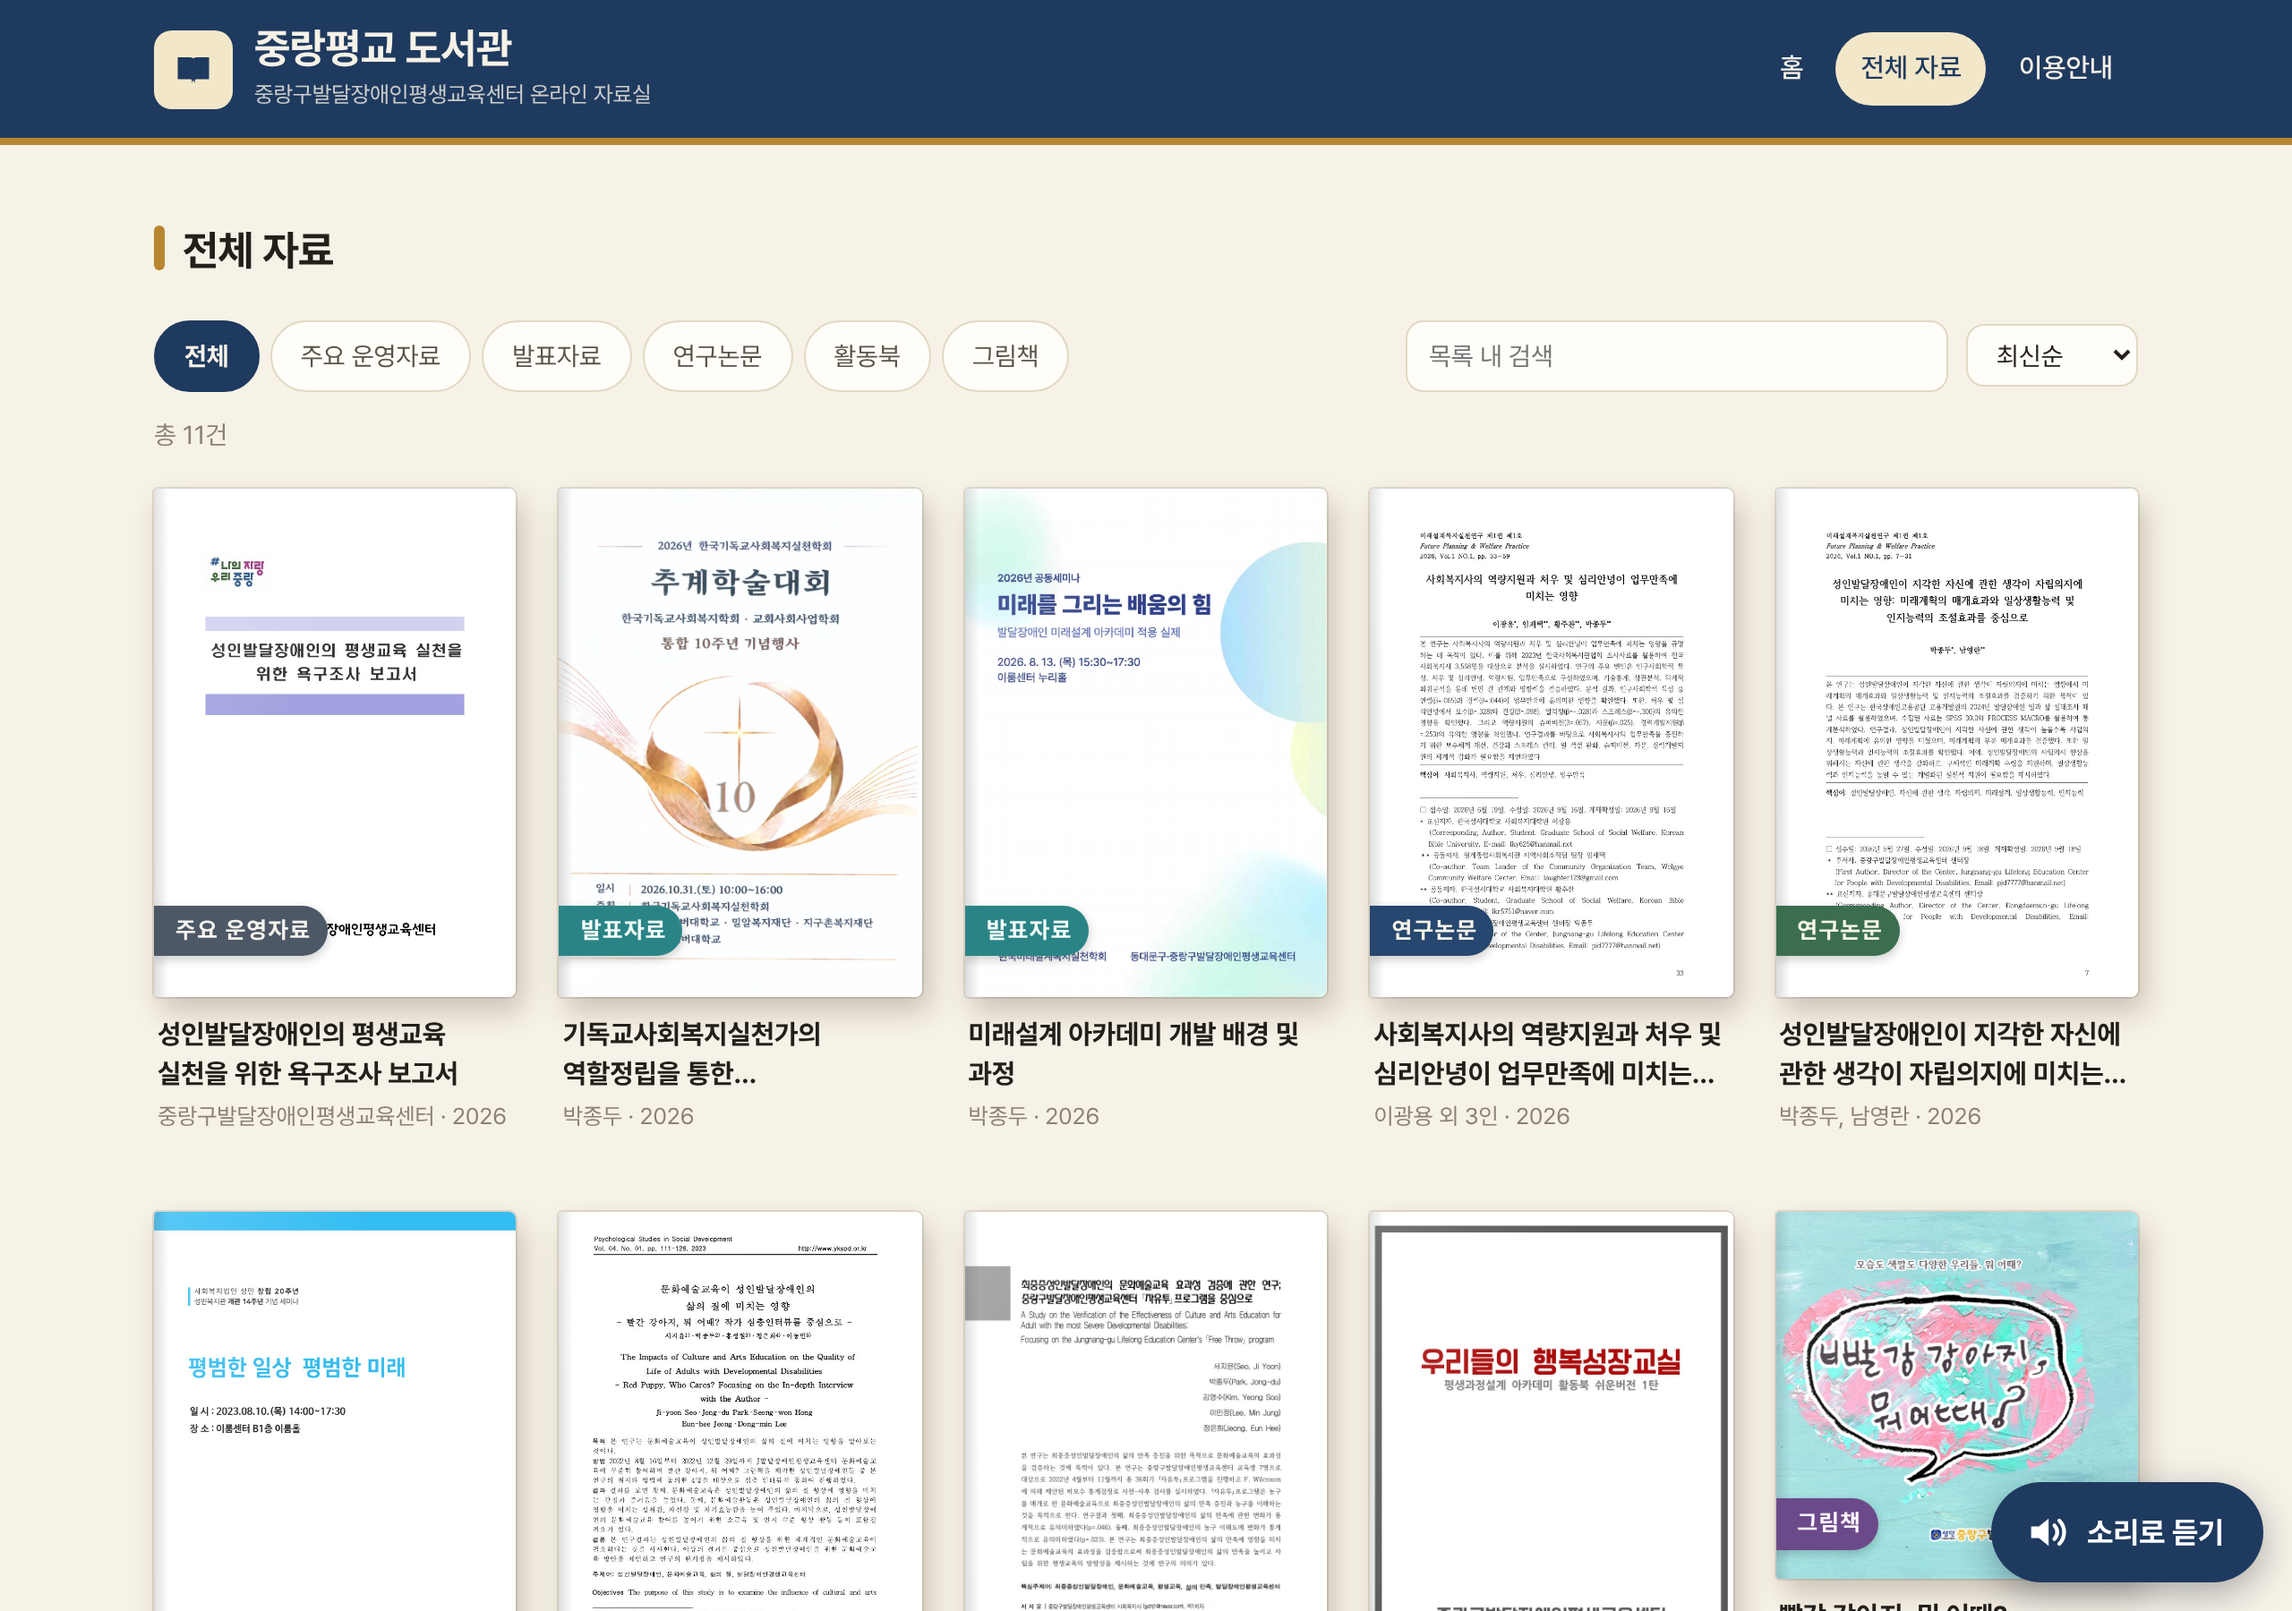
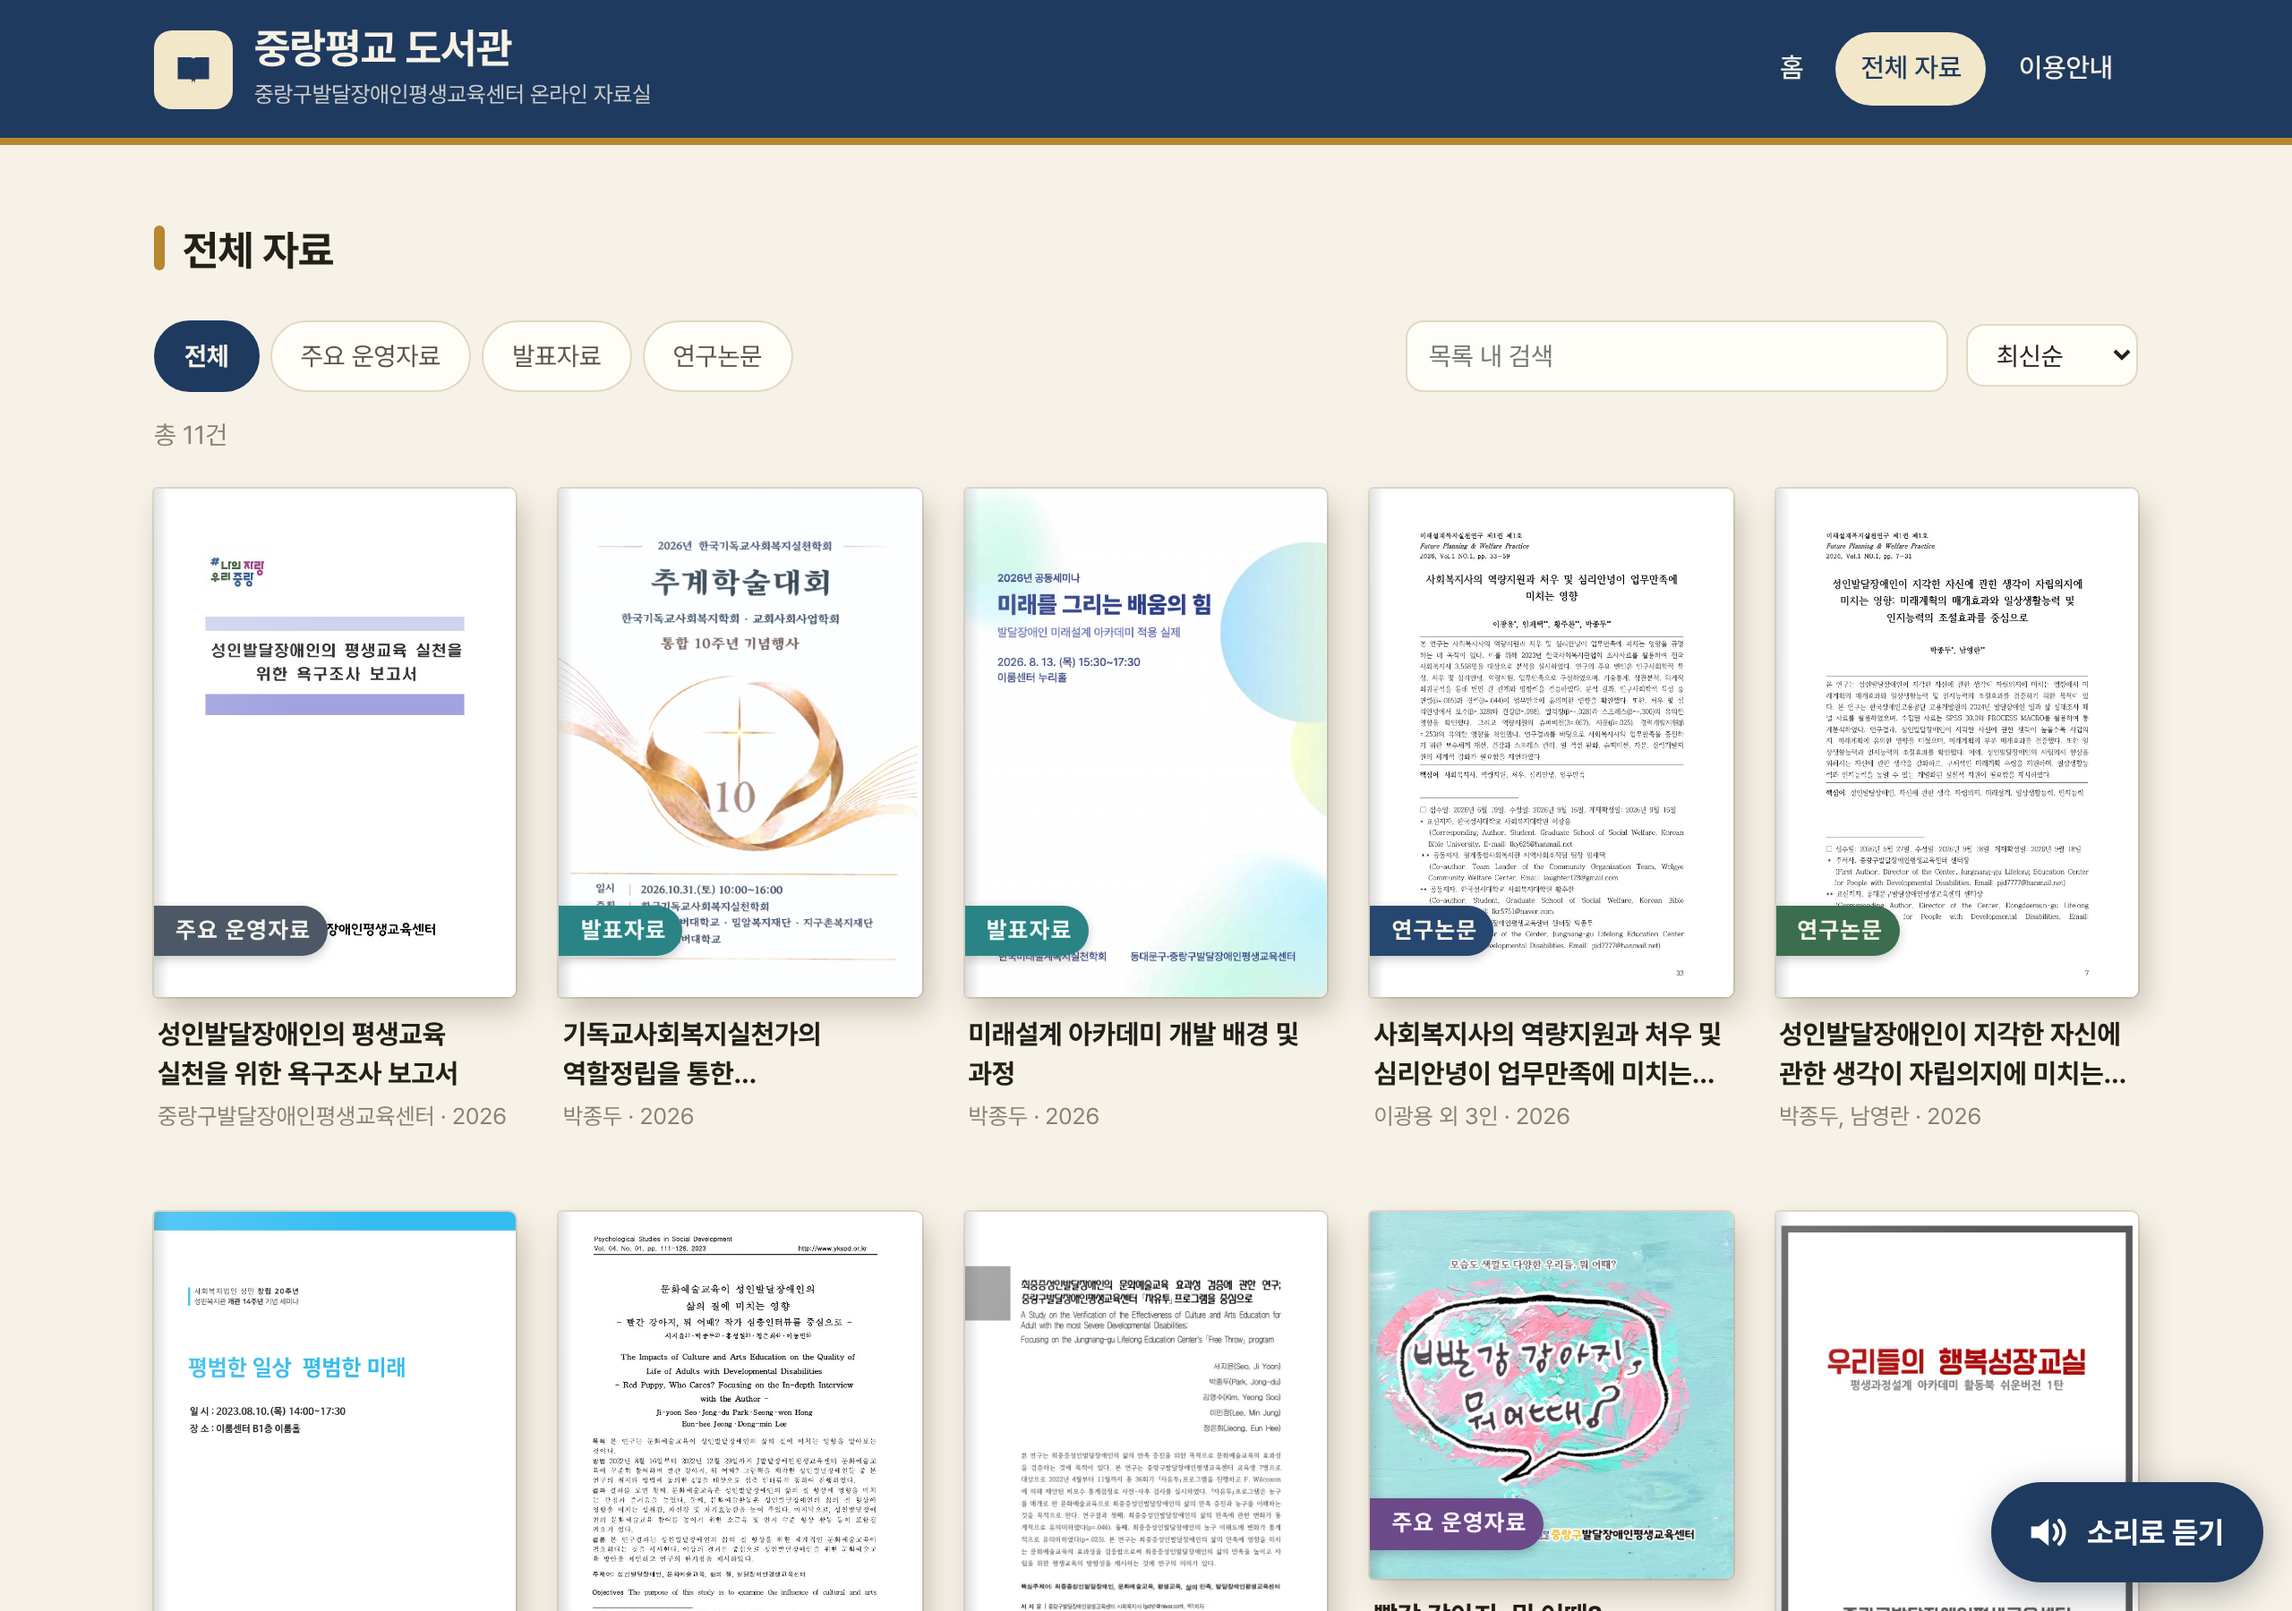
활동북·그림책 자료를 주요 운영자료로 이동
- 우리들의 행복성장교실(운영자료-2022-01), 빨강 강아지 뭐 어때?(운영자료-2022-02)
- 분류는 연구논문 / 주요 운영자료 / 발표자료 3가지로 정리

Claude-Session: https://claude.ai/code/session_017ot5WS4pG4jw3hhbpkp5C4

Changed region(s): [[0.5938, 0.7467, 0.9375, 1.0], [0.4375, 0.2178, 0.4688, 0.2489], [0.375, 0.2178, 0.4062, 0.2489]]

diff --git a/data/catalog.js b/data/catalog.js
@@ -6,7 +6,7 @@
  *
  *  id        : 영문 소문자-하이픈 고유값 (주소창 #/book/<id> 에 사용)
  *  callNo    : 청구기호  [유형코드]-[발행연도]-[일련번호]
- *  type      : "연구논문" | "주요 운영자료" | "활동북" | "발표자료" | "그림책" 등
+ *  type      : "연구논문" | "주요 운영자료" | "발표자료" 등
  *  pages     : 쪽수(숫자) / pagesLabel: 쪽수 대신 보여 줄 말(선택, 예: "슬라이드 23장")
  *  cover     : { theme: 색상테마, motif: 표지 그림 }  (theme=표지 띠 색, motif=첫 페이지 이미지가 없을 때 그리는 표지)
  *              theme  → navy | forest | crimson | amber | plum | teal | slate
@@ -220,8 +220,8 @@ window.CATALOG = [
     format: "PDF",
     firstPage: "assets/firstpages/red-puppy-picturebook-2022.jpg",
     coverRatio: "1040 / 1055",
-    callNo: "그림책-2022-01",
-    type: "그림책",
+    callNo: "운영자료-2022-02",
+    type: "주요 운영자료",
     title: "빨강 강아지, 뭐 어때?",
     subtitle: "모습도 색깔도 다양한 우리들, 뭐 어때?",
     authors: ["중랑구발달장애인평생교육센터 교육생"],
@@ -314,8 +314,8 @@ window.CATALOG = [
     id: "happy-growth-activity-book-2022",
     format: "PDF",
     firstPage: "assets/firstpages/happy-growth-activity-book-2022.jpg",
-    callNo: "활동북-2022-01",
-    type: "활동북",
+    callNo: "운영자료-2022-01",
+    type: "주요 운영자료",
     title: "우리들의 행복성장교실",
     subtitle: "평생과정설계 아카데미 활동북 쉬운버전 1탄",
     authors: ["중랑구발달장애인평생교육센터"],

diff --git a/CLAUDE.md b/CLAUDE.md
@@ -31,8 +31,8 @@
 4. `data/catalog.js` 배열에 항목 추가 (필드 설명은 파일 상단 주석)
    - `original`: `files/originals/<id>.<확장자>`, `format`: `"PDF"`/`"HWP"`/`"PPTX"`, `firstPage`: `assets/firstpages/<id>.jpg`
    - 슬라이드 자료는 `pagesLabel: "슬라이드 N장"`, 정사각형에 가까운 표지(그림책 등)는 `coverRatio: "가로 / 세로"`
-   - `type`(분류): `연구논문` / `주요 운영자료`(욕구조사·운영 보고서 등) / `활동북` / `발표자료` / `그림책`
-   - `callNo`: `논문-YYYY-NN` / `활동북-YYYY-NN` / `발표-YYYY-NN` / `그림책-YYYY-NN` / `운영자료-YYYY-NN` … 같은 유형·연도 안에서 일련번호 증가
+   - `type`(분류): `연구논문` / `주요 운영자료`(욕구조사·운영 보고서, 활동북, 그림책 등 센터가 만든 자료) / `발표자료`
+   - `callNo`: `논문-YYYY-NN` / `발표-YYYY-NN` / `운영자료-YYYY-NN` … 같은 유형·연도 안에서 발행 순서대로 일련번호 증가
    - `cover.theme`: 표지 유형 띠 색 — 기존 자료와 겹치지 않게 (navy·forest·crimson·amber·plum·teal·slate)
    - `cover.motif`: 첫 페이지 이미지가 없을 때 대신 그리는 표지 그림
    - `summary`: `oneLine`(대상·방법·핵심 결과), `easy`(쉬운 말 3~4문장, “~해요” 체), `stats`(핵심 숫자 2~4개)
